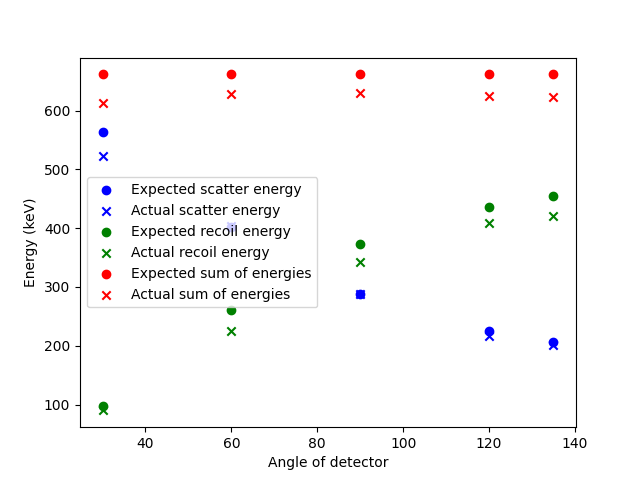
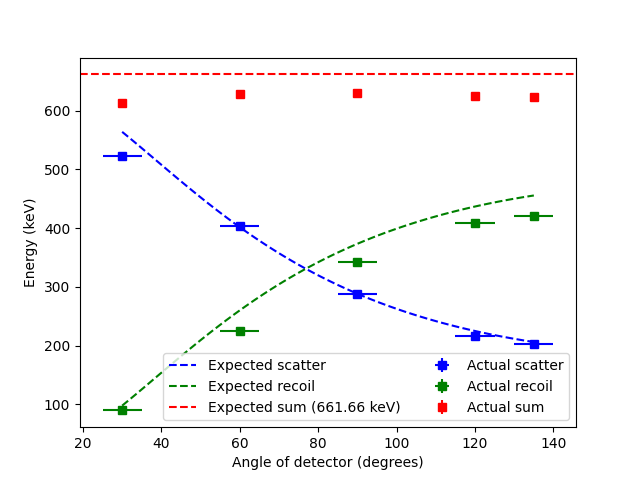
touch up images :beer:

diff --git a/Exp2-Compton/energies_and_diffcrosssec/energy_angle_plots.py b/Exp2-Compton/energies_and_diffcrosssec/energy_angle_plots.py
@@ -7,48 +7,93 @@ load the data in data/energy_angle.json and plot the expected vs actual energies
 import json
 import numpy as np
 import matplotlib.pyplot as plt
+from scipy.odr import Model, RealData, ODR
 
 if __name__ == "__main__":
     with open("data/energy_angle.json", "r") as f:
         data = json.load(f)
 
+    # FIRST PART: PLOT ENERGY VS ANGLE
+
     angles = data['angles']
+    angle_errors = [5 for _ in angles]
     expected_scatter = data['expected_scatter']
     scatter_energies = data['scatter_energies']
+    scatter_energies_errors = data['scatter_energies_errors']
     expected_recoil = data['expected_recoil']
     recoil_energies = data['recoil_energies']
+    recoil_energies_errors = data['recoil_energies_errors']
 
-    plt.scatter(angles, expected_scatter, label="Expected scatter energy", color='blue')
-    plt.scatter(angles, scatter_energies, label="Actual scatter energy", color='blue', marker='x')
-    plt.scatter(angles, expected_recoil, label="Expected recoil energy", color='green')
-    plt.scatter(angles, recoil_energies, label="Actual recoil energy", color='green', marker='x')
+    theta_plt = np.linspace(min(angles), max(angles), 100)
+    scatter_expected_plt = [661.66 / (1 + (661.66 / 511) * (1 - np.cos(np.radians(angle)))) for angle in theta_plt]
+    recoil_expected_plt = [661.66 - energy for energy in scatter_expected_plt]
+
+    plt.plot(theta_plt, scatter_expected_plt, label="Expected scatter", color='blue', linestyle='--')
+    plt.errorbar(angles, scatter_energies, xerr=angle_errors, yerr=scatter_energies_errors, fmt='s', label="Actual scatter", color='blue')
+    plt.plot(theta_plt, recoil_expected_plt, label="Expected recoil", color='green', linestyle='--')
+    plt.errorbar(angles, recoil_energies, xerr=angle_errors, yerr=recoil_energies_errors, fmt='s', label="Actual recoil", color='green')
 
     # plot the sum of the energies
-    plt.scatter(angles, [expected_scatter[i] + expected_recoil[i] for i in range(len(angles))], label="Expected sum of energies", color='red')
-    plt.scatter(angles, [scatter_energies[i] + recoil_energies[i] for i in range(len(angles))], label="Actual sum of energies", color='red', marker='x')
+    plt.axhline(y=661.66, color='red', linestyle='--', label="Expected sum (661.66 keV)")
+    sum_energies = [scatter + recoil for scatter, recoil in zip(scatter_energies, recoil_energies)]
+    sum_energies_errors = [np.sqrt(scatter_err**2 + recoil_err**2) for scatter_err, recoil_err in zip(scatter_energies_errors, recoil_energies_errors)]
+    plt.errorbar(angles, sum_energies, yerr=sum_energies_errors, fmt='s', label="Actual sum", color='red')
 
-    plt.xlabel("Angle of detector")
+    plt.xlabel("Angle of detector (degrees)")
     plt.ylabel("Energy (keV)")
-    plt.legend()
-    plt.savefig("images/for_paper/energy_angle.png")
 
+    # format the legend to lie above the line y=661.66 with two different columns
+    plt.legend(loc='lower right', ncol=2)
+    plt.savefig("images/for_paper/energy_angle.png")
     plt.clf()
 
+
+
+    # SECOND PART: PLOT INVERSE SCATTERING ENERGY VS 1 - COS(THETA)
+
     # plot the inverse energy vs 1 - cos(theta)
-    plt.scatter([1 - np.cos(np.radians(angle)) for angle in angles], [1 / energy for energy in scatter_energies], label="Scattered photons")
+    x_scatter = [1 - np.cos(np.radians(angle)) for angle in angles]
+    x_scatter_errors = [np.sin(np.radians(angle)) * np.radians(5) for angle in angles]
+    y_scatter = [1 / energy for energy in scatter_energies]
+    y_scatter_errors = [scatter_energies_errors[i] / scatter_energies[i]**2 for i in range(len(scatter_energies))]
 
-    # draw a best fit line
-    m, b = np.polyfit([1 - np.cos(np.radians(angle)) for angle in angles], [1 / energy for energy in scatter_energies], 1)
+    plt.errorbar(
+        [1 - np.cos(np.radians(angle)) for angle in angles],
+        [1 / energy for energy in scatter_energies],
+        xerr=x_scatter_errors,
+        yerr=y_scatter_errors,
+        fmt='o'
+    )
 
-    x = np.linspace(0, max([1 - np.cos(np.radians(angle)) for angle in angles]), 100)
-    y = m * x + b
+    # draw a best fit line, using scipy odr since the errors are in both x and y
+    def f(B, x):
+        return B[0] * x + B[1]
+    
+    linear = Model(f)
 
-    plt.plot(x, y, label=f"y = {m:.4f}x + {b:.4f}")
+    data = RealData(x_scatter, y_scatter, sx=x_scatter_errors, sy=y_scatter_errors)
+    odr = ODR(data, linear, beta0=[1, 0])
+    out = odr.run()
+    m, c = out.beta
+    m_err, c_err = out.sd_beta
+
+    y = [1/energy for energy in scatter_energies]
+    x_pred = [(y_val - c) / m for y_val in y]
+
+    # get a chi squared value from the inverse plot
+    chi_squared = sum([(x - x_pred[i])**2 / x_scatter_errors[i]**2 for i, x in enumerate(x_scatter)])
+    # print(f"chi^2 / dof = {chi_squared:.1f} / {len(angles) - 2}")
+    plt.text(0.1, 0.8, f"$\chi^2$ / dof = {chi_squared:.1f} / {len(angles) - 2}", transform=plt.gca().transAxes)
+
+    # the slope of the line is 1/m_e
+    m_e = 1 / m
+    m_e_err = m_e * m_err / m
+    print(f"Obtained electron rest mass: {m_e:.1f} ± {m_e_err:.1f} keV")
+
+    plt.plot(x_pred, y, label=f"Best fit line: $y = {m:.2f}x + {c:.2f}$")
 
     plt.xlabel("1 - $\\cos(\\theta)$ (dimensionless)")
     plt.ylabel("Inverse energy (1/keV)")
     plt.ylim(0, max([1 / energy for energy in scatter_energies])*1.1)
-    plt.legend()
     plt.savefig("images/for_paper/inverse_energy_angle.png")
-
     plt.clf()

diff --git a/Exp2-Compton/energies_and_diffcrosssec/energy_angle.py b/Exp2-Compton/energies_and_diffcrosssec/energy_angle.py
@@ -17,6 +17,23 @@ from get_calib import *
 import json
 import pickle
 
+def load_energy(filename):
+    '''
+    Load the energy of the peaks from the peak_info.json file
+    '''
+    with open('data/calib_x.pkl', 'rb') as f:
+        data = pickle.load(f)
+        counts_calib_x = data[filename]
+    with open('data/peak_info.json', 'r') as f:
+        data = json.load(f)
+    peak_index = data[filename]['peak']
+    peak_err = data[filename]['peak_err']
+
+    energy_per_index = (counts_calib_x[-1] - counts_calib_x[0]) / (len(counts_calib_x) - 1)
+    peak_energy_err = peak_err * energy_per_index
+
+    return counts_calib_x[peak_index], peak_energy_err
+
 def get_energy(filename, exp_eng_peak, verbose=False, name="none"):
     '''
     Given a file and an expected energy of peak, returns the energy of the peak
@@ -41,6 +58,9 @@ def get_energy(filename, exp_eng_peak, verbose=False, name="none"):
     peak = peak_info['mean']
     peak_std = abs(peak_info['std'])
     peak_amplitude = peak_info['amplitude']
+    peak_err = peak_info['mean_err']
+    peak_std_err = peak_info['std_err']
+    peak_amplitude_err = peak_info['amplitude_err']
 
     # save the peak info to the json file data/peak_info.json
     with open('data/peak_info.json', 'r') as f:
@@ -49,7 +69,11 @@ def get_energy(filename, exp_eng_peak, verbose=False, name="none"):
         "peak": peak,
         "std": peak_std,
         "amplitude": peak_amplitude,
-        "num_counts": peak_std * peak_amplitude
+        "num_counts": peak_std * peak_amplitude,
+        "peak_err": peak_err,
+        "std_err": peak_std_err,
+        "amplitude_err": peak_amplitude_err,
+        "num_counts_err": peak_std_err * peak_amplitude + peak_std * peak_amplitude_err
     }
     with open('data/peak_info.json', 'w') as f:
         json.dump(data, f, indent=4)
@@ -58,9 +82,9 @@ def get_energy(filename, exp_eng_peak, verbose=False, name="none"):
     if verbose:
         print(f"The actual peak index: {peak}")
 
-    energy = counts_calib_x[peak]
+    energy = counts_calib_x[peak] # convert index to energy
 
-    return energy
+    print(f"stored data for {filename} in data/peak_info.json")
 
 if __name__ == "__main__":
     angles = [30, 60, 90, 120, 135]
@@ -86,14 +110,18 @@ if __name__ == "__main__":
     # print("actual recoil energies:", recoil_energies)
 
     scatter_energies = []
+    scatter_energies_errors = []
     recoil_energies = []
+    recoil_energies_errors = []
 
     for angle in angles:
         filename = f'scatter{angle}.Chn'
         counts = read_data(filename)['counts']
         # smooth counts by replacing every bin with the average of the bin and its neighbors
         counts = np.array([np.mean(counts[max(0, i-1):min(len(counts), i+2)]) for i in range(len(counts))])
-        scatter_energy = get_energy(f'scatter{angle}.Chn', expected_scatter[angles.index(angle)], verbose=verbose, name="scatter"+str(angle))
+        get_energy(f'scatter{angle}.Chn', expected_scatter[angles.index(angle)], verbose=verbose, name="scatter"+str(angle))
+        scatter_energy, scatter_energy_err = load_energy(f'scatter{angle}.Chn')
+        # scatter_energy = get_energy(f'scatter{angle}.Chn', expected_scatter[angles.index(angle)], verbose=verbose, name="scatter"+str(angle))
         print(f"Expected scattering energy: {expected_scatter[angles.index(angle)]}")
         print(f"Actual scattering energy: {scatter_energy}")
         plt.plot(range(len(counts)), counts, alpha=0.5)
@@ -103,13 +131,16 @@ if __name__ == "__main__":
         plt.savefig(f'./images/energy_measurements/{filename[:-4]}_calib.png')
         plt.clf()
         scatter_energies.append(scatter_energy)
+        scatter_energies_errors.append(scatter_energy_err)
 
     for angle in angles:
         filename = f'recoil{angle}.Chn'
         counts = read_data(filename)['counts']
         # smooth counts by replacing every bin with the average of the bin and its neighbors
         counts = np.array([np.mean(counts[max(0, i-1):min(len(counts), i+2)]) for i in range(len(counts))])
-        recoil_energy = get_energy(f'recoil{angle}.Chn', expected_recoil[angles.index(angle)], verbose=verbose, name="recoil"+str(angle))
+        get_energy(f'recoil{angle}.Chn', expected_recoil[angles.index(angle)], verbose=verbose, name="recoil"+str(angle))
+        recoil_energy, recoil_energy_err = load_energy(f'recoil{angle}.Chn')
+        # recoil_energy = get_energy(f'recoil{angle}.Chn', expected_recoil[angles.index(angle)], verbose=verbose, name="recoil"+str(angle))
         print(f"Expected recoil energy: {expected_recoil[angles.index(angle)]}")
         print(f"Actual recoil energy: {recoil_energy}")
         plt.plot(range(len(counts)), counts, alpha=0.5)
@@ -119,13 +150,16 @@ if __name__ == "__main__":
         plt.savefig(f'./images/energy_measurements/{filename[:-4]}_calib.png')
         plt.clf()
         recoil_energies.append(recoil_energy)
+        recoil_energies_errors.append(recoil_energy_err)
 
     data = {
         "angles": angles,
         "expected_scatter": expected_scatter,
         "expected_recoil": expected_recoil,
         "scatter_energies": scatter_energies,
-        "recoil_energies": recoil_energies
+        "recoil_energies": recoil_energies,
+        "scatter_energies_errors": scatter_energies_errors,
+        "recoil_energies_errors": recoil_energies_errors
     }
 
     with open('data/energy_angle.json', 'w') as f:

diff --git a/Exp2-Compton/energies_and_diffcrosssec/KN.py b/Exp2-Compton/energies_and_diffcrosssec/KN.py
@@ -34,6 +34,7 @@ def kn_function(theta, r_e, c):
 
 if __name__ == "__main__":
     angles = [30, 60, 90, 120, 135]
+    angle_errors = [5 for _ in angles]
     INCOMING_ENERGY = 661.66
     expected_scatter = [
         INCOMING_ENERGY / (1 + (INCOMING_ENERGY / 511) * (1 - np.cos(np.radians(angle))))
@@ -45,6 +46,7 @@ if __name__ == "__main__":
     ]
 
     recoil_num_counts = []
+    recoil_num_counts_error = []
 
     # load recoil counts from peak_info.json
     with open('data/peak_info.json', 'r') as f:
@@ -53,8 +55,10 @@ if __name__ == "__main__":
         filename = f'recoil{angle}.Chn'
         num_counts = data[filename]['num_counts']
         recoil_num_counts.append(num_counts)
+        num_counts_error = data[filename]['num_counts_err']
+        recoil_num_counts_error.append(num_counts_error)
 
-    print(recoil_num_counts)
+    print("recoil num counts", recoil_num_counts)
 
     # load live times from data/live_times.json
     live_times = []
@@ -67,22 +71,28 @@ if __name__ == "__main__":
 
     # divide the number of counts by the live time to get the flux
     recoil_flux = [recoil_num_counts[i] / live_times[i] for i in range(len(angles))]
+    recoil_flux_error = [recoil_num_counts_error[i] / live_times[i] for i in range(len(angles))]
 
-    fluxes_dict = dict(zip(angles, recoil_flux))
+    fluxes_dict = {}
+    for i in range(len(angles)):
+        fluxes_dict[f'recoil{angles[i]}'] = {
+            'flux': recoil_flux[i],
+            'flux_error': recoil_flux_error[i]
+        }
     with open('data/fluxes.json', 'w') as f:
         json.dump(fluxes_dict, f, indent=4)
 
     # fit the flux vs angle to the Klein-Nishina formula
     popt, pcov = curve_fit(kn_function, angles, recoil_flux)
-    print(popt)
+    print("KN popt", popt)
     # fit the flux vs angle to the Thomson formula
     popt_thomson, pcov_thomson = curve_fit(thomson, angles, recoil_flux)
-    print(popt_thomson)
+    print("Thomson popt", popt_thomson)
     # plot the fit
-    plt.scatter(angles, recoil_flux)
+    plt.errorbar(angles, recoil_flux, xerr=angle_errors, yerr=recoil_flux_error, fmt='o', label='Fluxes with errors', color='blue')
     theta_plt = np.linspace(min(angles), max(angles), 100)
-    plt.plot(theta_plt, kn_function(theta_plt, *popt), label=f"Klein-Nishina")
-    plt.plot(theta_plt, thomson(theta_plt, *popt_thomson), label=f"Thomson")
+    plt.plot(theta_plt, kn_function(theta_plt, *popt), label=f"Klein-Nishina", color='blue')
+    plt.plot(theta_plt, thomson(theta_plt, *popt_thomson), label=f"Thomson", color='red')
     plt.xlabel("Angle (degrees)")
     plt.ylabel("Flux")
     plt.title("Flux vs Angle")

diff --git a/Exp2-Compton/energies_and_diffcrosssec/get_calib.py b/Exp2-Compton/energies_and_diffcrosssec/get_calib.py
@@ -58,7 +58,7 @@ def get_peak(counts, est_peak, plot=False, peak_name="", debug=False):
 
     peak_counts = counts[np.array(peak_region) == 1]
     peak_x = np.arange(len(peak_counts))
-    peak_params, _ = curve_fit(gaussian, peak_x, peak_counts, p0=[MAX_CNT, len(peak_counts) / 2, len(peak_counts)])
+    peak_params, pcov = curve_fit(gaussian, peak_x, peak_counts, p0=[MAX_CNT, len(peak_counts) / 2, len(peak_counts)])
     peak_mean = int(peak_params[1] + min_peak_region_index)
 
     # print(f'Peak at {peak_mean}')
@@ -71,8 +71,11 @@ def get_peak(counts, est_peak, plot=False, peak_name="", debug=False):
 
     ret = {
         'mean': peak_mean, # the mean of the peak as an index in the counts array
+        'mean_err': np.sqrt(np.diag(pcov))[1],
         'std': peak_params[2],
+        'std_err': np.sqrt(np.diag(pcov))[2],
         'amplitude': peak_params[0],
+        'amplitude_err': np.sqrt(np.diag(pcov))[0]
     }
 
     return ret
